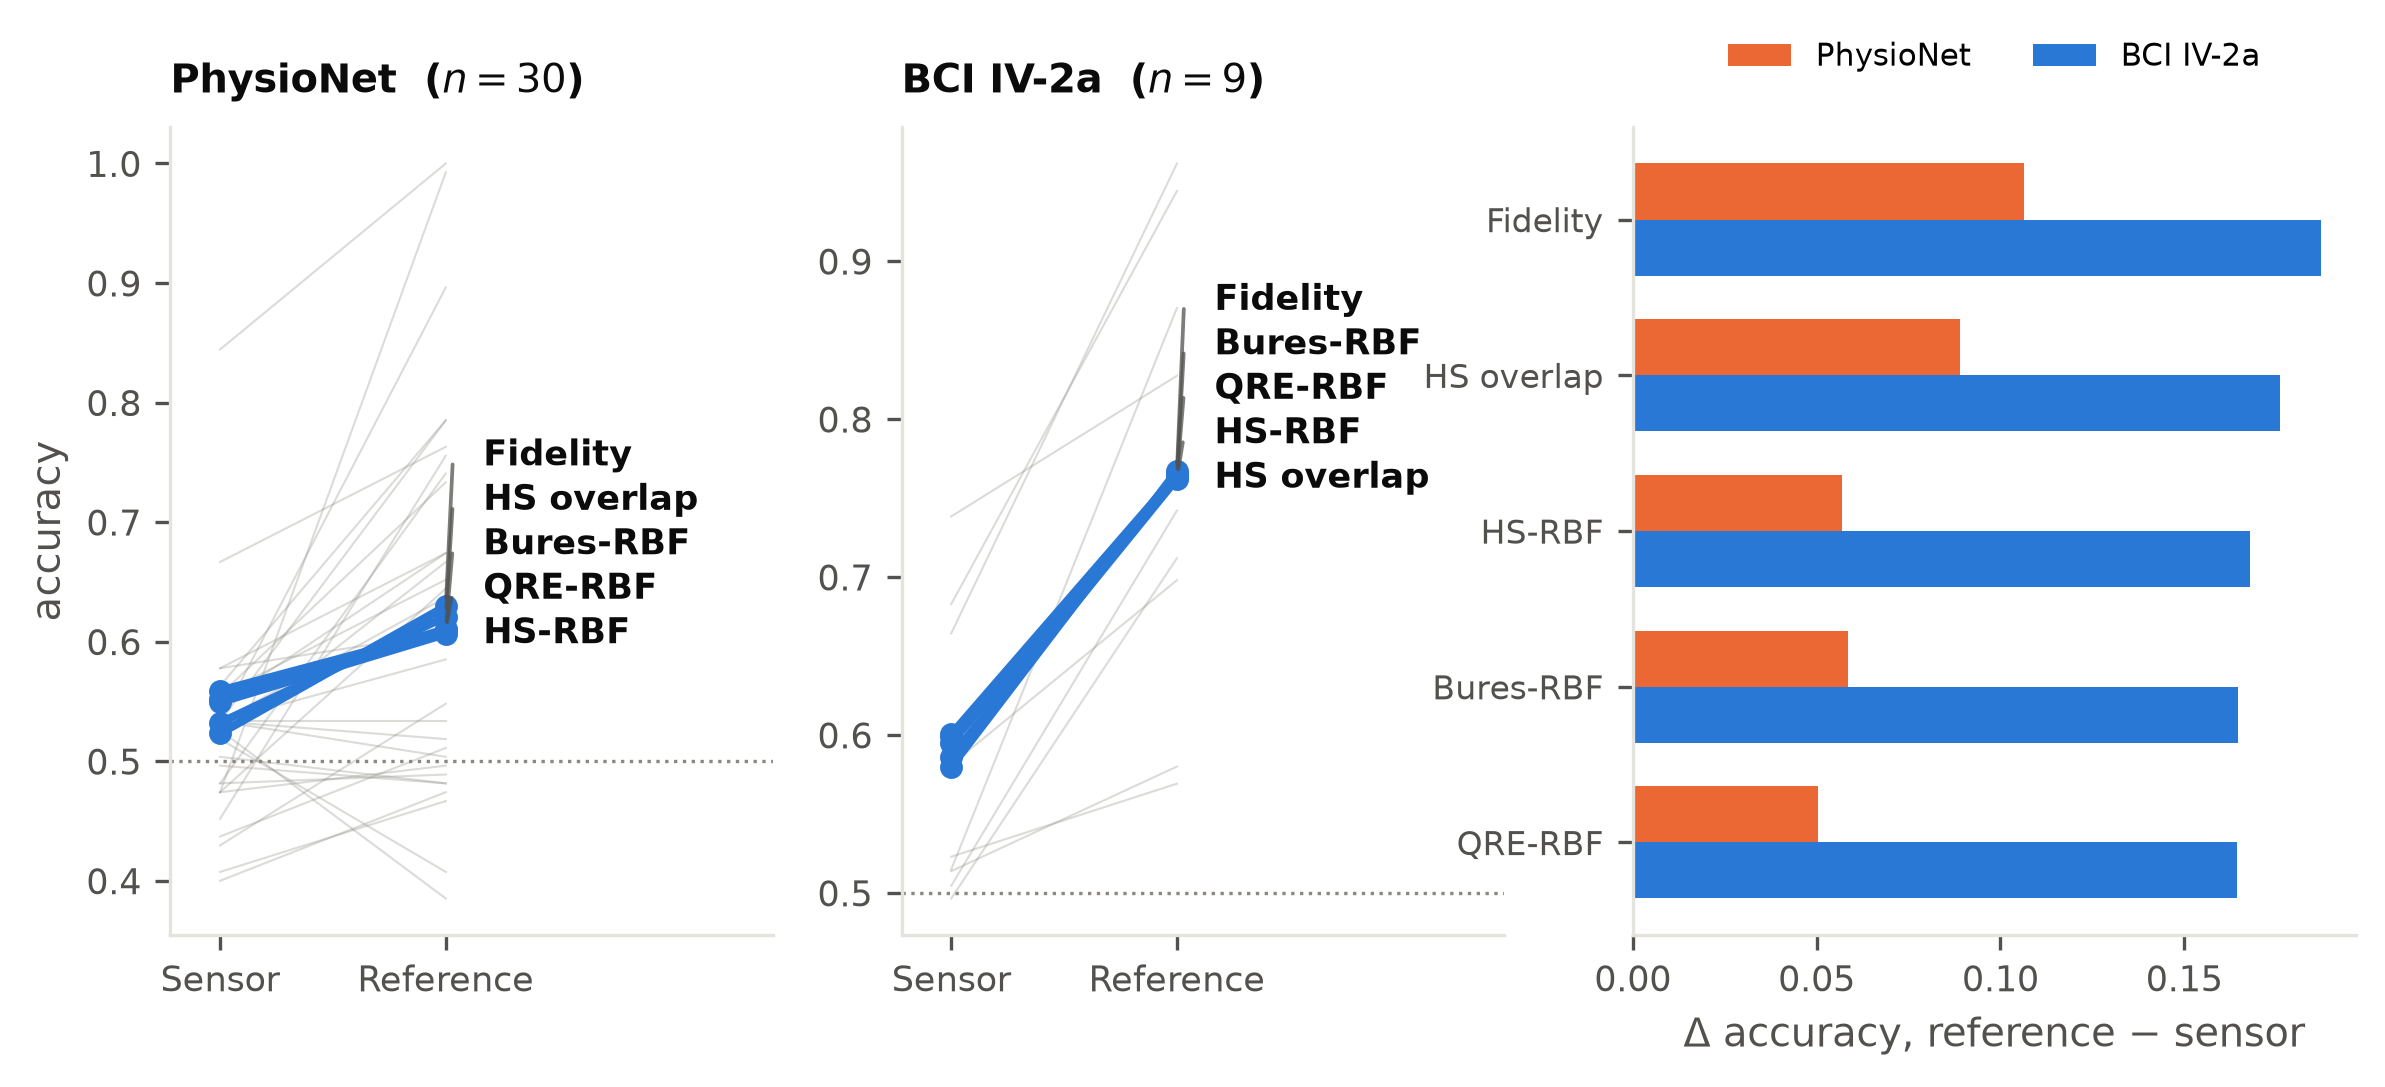
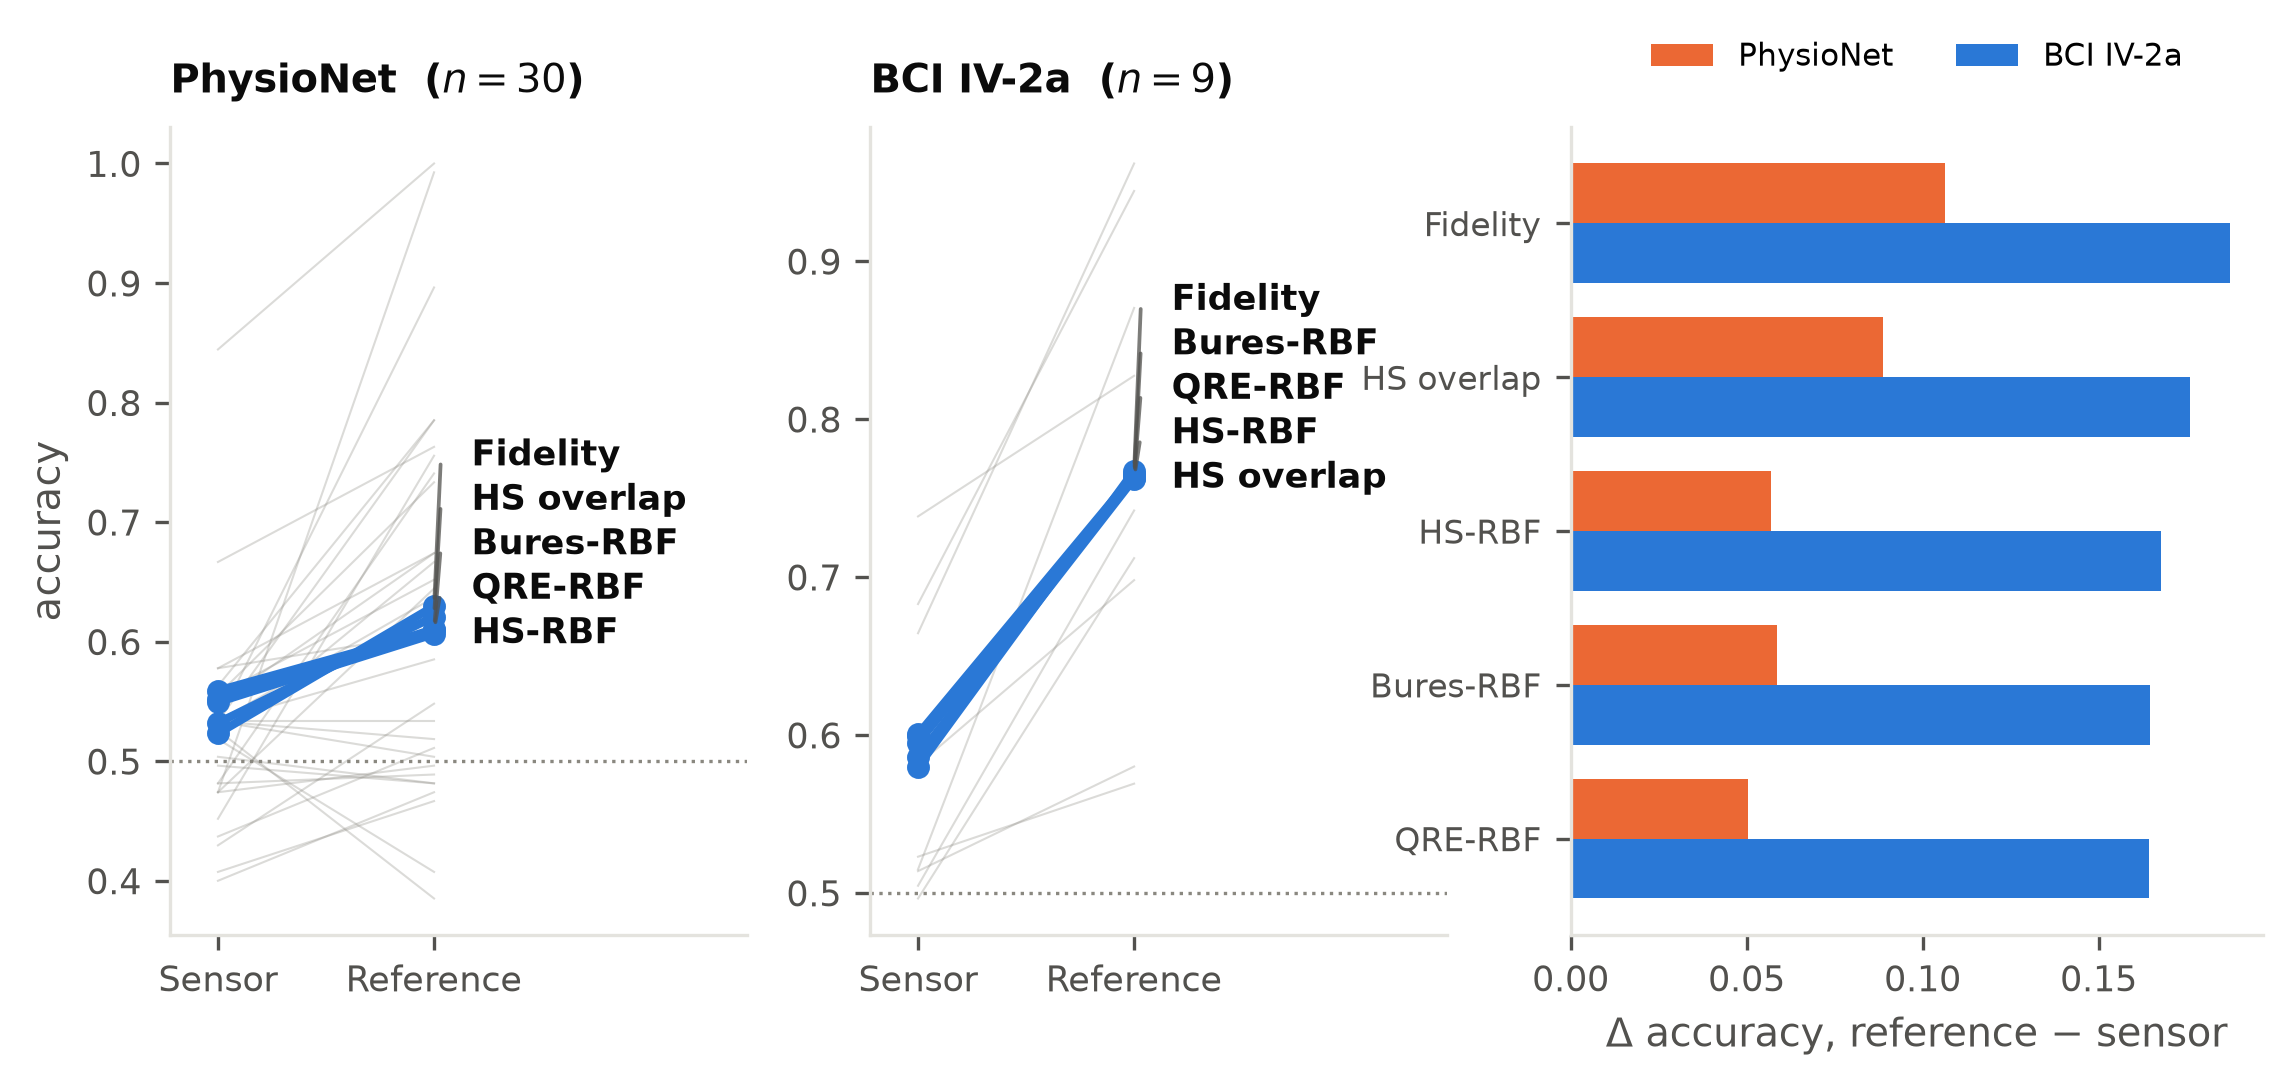
ups

diff --git a/src/qeeg/figures_reference.py b/src/qeeg/figures_reference.py
@@ -260,12 +260,20 @@ def fig_frame(res: Path, out: Path) -> bool:
     if phys is None:
         return False
     bci = _read(res, "raw_folds_refstate_bci2a_motor8_q4.csv")
+    cho = _read(res, "raw_folds_refstate_cho2017_motor8_q4.csv")
     blocks = [("PhysioNet", _per(phys))]
+    if cho is not None:
+        blocks.append(("Cho2017", _per(cho)))
     if bci is not None:
         blocks.append(("BCI IV-2a", _per(bci)))
+    # PhysioNet orange and IV-2a blue as before; Cho2017, when present, green.
+    block_colors = {name: c for name, c in
+                    (("PhysioNet", SENSOR_C), ("Cho2017", GREEN), ("BCI IV-2a", REF_C))}
+    block_colors = [block_colors[name] for name, _ in blocks]
 
     F._style()
-    fig, axes = plt.subplots(1, len(blocks) + 1, figsize=(9.4, 3.5),
+    fig, axes = plt.subplots(1, len(blocks) + 1,
+                             figsize=(2.7 * len(blocks) + 3.6, 3.5),
                              gridspec_kw={"width_ratios": [1] * len(blocks) + [1.2]})
     axes = np.atleast_1d(axes)
 
@@ -301,7 +309,7 @@ def fig_frame(res: Path, out: Path) -> bool:
 
     # Effect size per kernel per dataset.
     ax = axes[-1]
-    width = 0.36
+    width = 0.78 / len(blocks)
     for bi, (name, per) in enumerate(blocks):
         vals, labs = [], []
         for a, b, lab in FRAME_PAIRS:
@@ -309,21 +317,21 @@ def fig_frame(res: Path, out: Path) -> bool:
                 vals.append(per[b].mean() - per[a].mean())
                 labs.append(lab)
         ys = np.arange(len(vals))
-        ax.barh(ys + (bi - 0.5) * width, vals, height=width,
-                color=[SENSOR_C, REF_C][bi], label=name)
+        ax.barh(ys + (bi - (len(blocks) - 1) / 2) * width, vals, height=width,
+                color=block_colors[bi], label=name)
     ax.set_yticks(np.arange(len(labs)))
     ax.set_yticklabels(labs, fontsize=8)
     ax.invert_yaxis()
     ax.axvline(0, color=INK_2, lw=0.9)
     ax.set_xlabel(r"$\Delta$ accuracy, reference $-$ sensor")
     ax.legend(fontsize=7.5, loc="upper center", bbox_to_anchor=(0.5, 1.14),
-              ncol=2)
+              ncol=len(blocks))
     F._despine(ax)
 
     F._caption(fig, (
         "Thin lines are individual subjects, shown for the Fidelity kernel "
         "only; overlaying all five would give 150\ncrossing lines. Every "
-        "kernel improves on both datasets, and on IV-2a every kernel improves "
+        "kernel improves on every dataset, and on IV-2a every kernel improves "
         "in every\nsubject. The correction is worth two to three times more on "
         "IV-2a, where the reference state is estimated\nfrom six times as many "
         "trials."))
